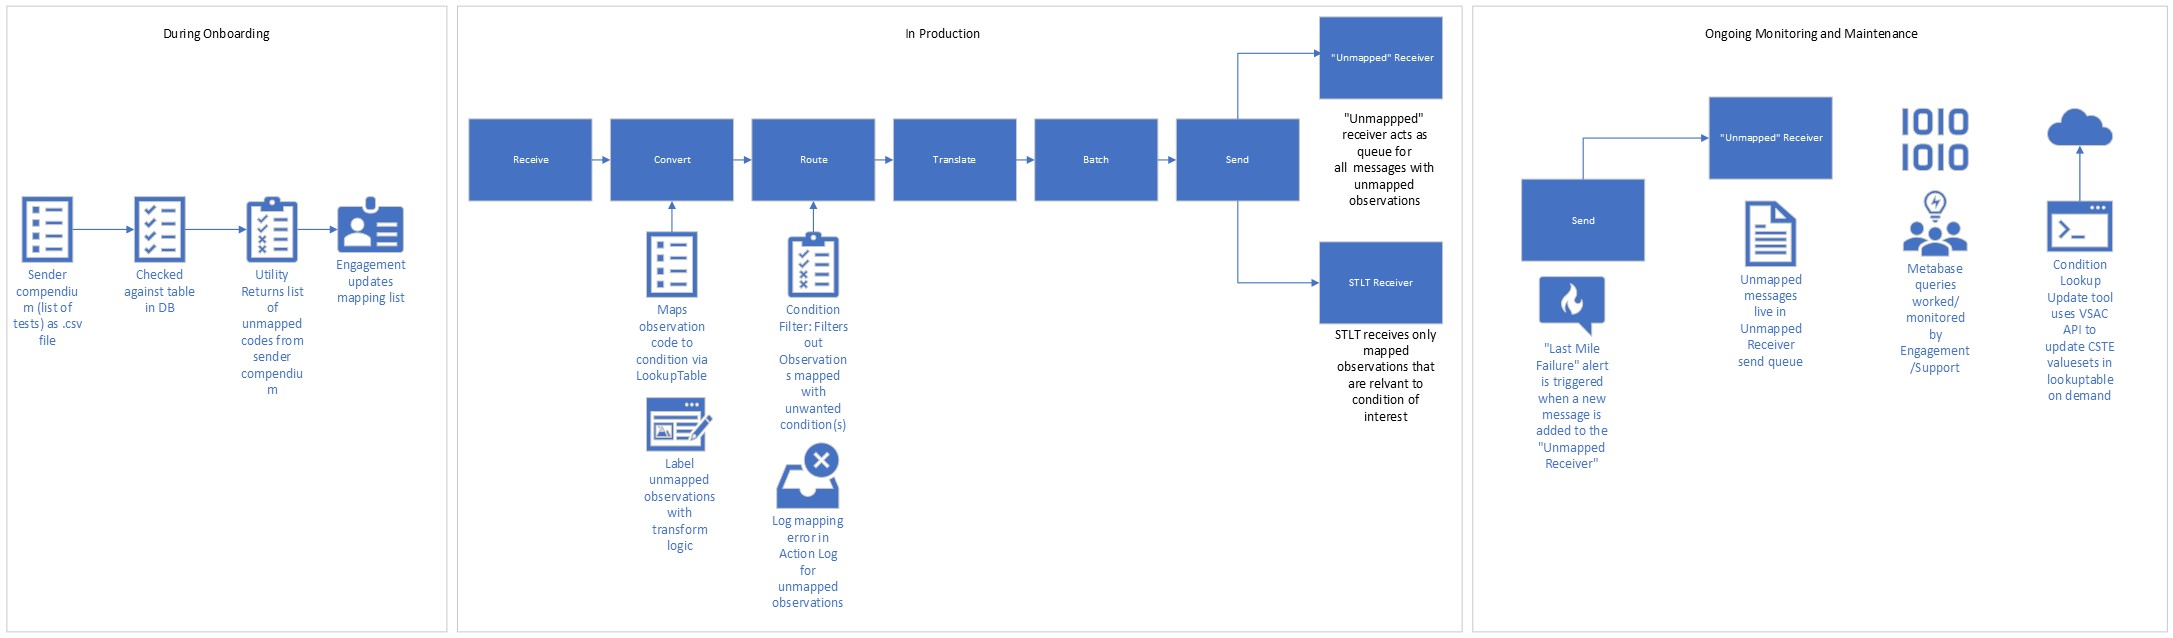
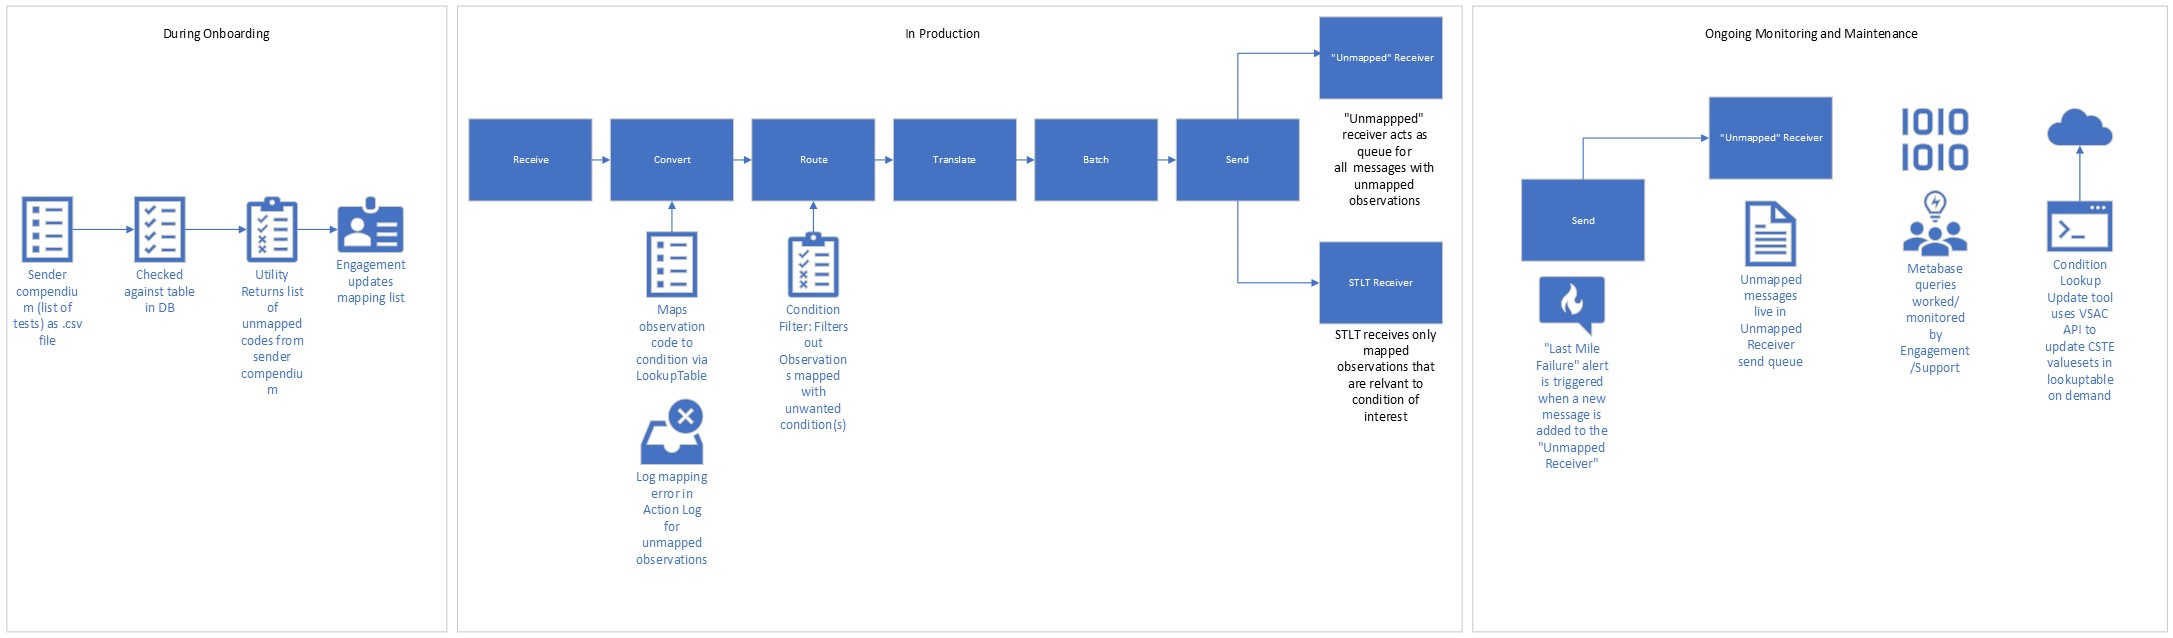
update diagram and add detail to multiple sections

Changed region(s): [[0.2775, 0.6254, 0.4008, 0.8934], [0.3392, 0.8636, 0.4008, 0.953]]

diff --git a/prime-router/docs/design/proposals/0023-condition-to-code-mapping/0023-condition-to-code-mapping.md b/prime-router/docs/design/proposals/0023-condition-to-code-mapping/0023-condition-to-code-mapping.md
@@ -28,9 +28,10 @@ Overview Diagram
 
 ![img.png](code-to-condition diagram.png)
 
-### Condition Mapping Table
 
-The condition mapping table will be made up of CSTE ValueSets and contain the following columns:
+### Observation Mapping Table
+
+The Observation Mapping table will be made up of CSTE ValueSets and contain the following columns:
 
 | Column Name                   | Description                                   | Example                                                                        |
 |-------------------------------|-----------------------------------------------|--------------------------------------------------------------------------------|
@@ -142,7 +143,7 @@ Due to the presence of the tag on the fhir bundle we can utilize any of the exis
 
 There are multiple ways to write the logic in the condition filter. The first way will remove any observations that do not pass the condition filter.<br>
 
-### Condition filter logic #1
+### Condition filter logic #1 (Recommended)
 
 Example input: [prime-reportstream/prime-router/docs/design/proposals/0023-condition-to-code-mapping/exampleinput.fhir]()
 
@@ -165,9 +166,9 @@ Example condition logic:
 ```
 Example output: [prime-reportstream/prime-router/docs/design/proposals/0023-condition-to-code-mapping/exampleoutput1.hl7]()
 
-This will result in a message with potentially missing results in the event that there is a missing mapping, and also presents difficulties in dealing with culture results as it would require all the LOINCS for all possible micro cultures to be mapped.
+This approach will prune any observations that do not match the listed conditions in the filter during the translation step (FHIRTranslator.kt).
 
-### Condition filter logic #2
+### Condition filter logic #2 
 
 The second way to write the condition logic will pass the entire bundle if a match is found for one observation.
 
@@ -208,9 +209,9 @@ enum class ActionLogLevel {
     mapping
 }
 ```
-### Logging Missing Mapping Strategy #1
+### Logging Missing Mapping Strategy 
 
-The first proposed way of monitoring mapping is to add functionality to LookupTableValueSet.kt to log a mapping error to the Action Log if the LOINC/SNOMED from the targeted observation resource used as the Key does not return a Value.
+The proposed way of monitoring mapping is to add functionality to LookupTableValueSet.kt to log a mapping error to the Action Log if the LOINC/SNOMED from the targeted observation resource used as the Key does not return a Value.
 
 Example:
 
@@ -232,7 +233,7 @@ For the below resource:
     }
   }
 ```
-the below element in the default transformation utilizes LookupTableValueSet to use key "80382-5" to search Condition-Mapping table stored in the database to return a value from the condition_code column
+the below element in the default transformation utilizes LookupTableValueSet to use key "80382-5" to search Observation-Mapping table stored in the database to return a value from the condition_code column
 
 ```yaml
 - name: test-condition
@@ -242,12 +243,14 @@ the below element in the default transformation utilizes LookupTableValueSet to 
   value: ['%resource.code.coding.code']
   valueSet:
     lookupTable:
-      tableName: Condition-Mapping
+      tableName: Observation-Mapping
       keyColumn: code
       valueColumn: condition_code
 ```
 
 In the example table below we can see that there is no match found for code "80382-5"
+
+Example Observation Mapping Table:
 
 | Member OID                     | Name                                                 | Code    | Descriptor                                                                          | Code System | Version | Status | Condition Name                                                 | Condition Code   | Condition Code System | Condition Code System Version | Value Source |
 |--------------------------------|------------------------------------------------------|---------|-------------------------------------------------------------------------------------|-------------|---------|--------|----------------------------------------------------------------|------------------|-----------------------|-------------------------------|--------------|
@@ -255,103 +258,120 @@ In the example table below we can see that there is no match found for code "803
 | 2.16.840.1.113762.1.4.1146.799 | Influenza (Tests for influenza A virus Antigen)      | 88904-8 | Influenza virus A Ag [Presence] in Lower respiratory specimen by Immunofluorescence | LOINC       | 2.74    | Active | Infection caused by novel Influenza A virus variant (disorder) | 541000000000000  | SNOMEDCT              | 2023-03                       | RCTC         |
 |                                | Influenza - (ABC TESTING LABS)                       | 123456  | Influenza virus A                                                                   | LOCAL       |         | Active | Infection caused by novel Influenza A virus variant (disorder) | 541000000000000  | SNOMEDCT              | 2023-03                       | LOCAL        |   
 
-In this instance we would add want to add an entry to the Action Log if a null value or empty string was returned. The content of the error message should include both the keyValue and the tableName as in the below example:
- 
-"Missing mapping for: " + keyValue + " for table:" + tableName". 
+Example Action Log Error Message: "Missing mapping for: 123456 for table: Observation-Mapping"
 
-By following this strategy we could also log and monitor missing mappings for any lookupTable which is used in a translation schema, not just condition mappings. The downside of this strategy is that if the value in the observation is not a test performed code (if for example it is an AOE), then we will always be logging a mapping error for that value when it is received. 
+In this instance we would add want to add an entry to the Action Log if a null value or empty string was returned. The content of the error message should include both the keyValue and the tableName in the format: "Missing mapping for: " + keyValue + " for table:" + tableName".
+By following this strategy we could also log and monitor missing mappings for any lookupTable which is used in a translation schema, not just condition mappings.
 
-### Logging Missing Mapping Strategy #2 (recommended)
-
-Strategy number two makes use of fhirpath and tags to stamp an "Unmapped" tag on an observation resource that does not find a match. We can then add logic that records an action log error when an unmapped value is received during the evaluation of the condition filters. 
-
-Example:
+Example Action Log Detail:
 
 ```json
-        {
-            "fullUrl": "Observation/d683b42a-bf50-45e8-9fce-6c0531994f09",
-            "resource": {
-                "resourceType": "Observation",
-                "id": "d683b42a-bf50-45e8-9fce-6c0531994f09",
-                "status": "final",
-                "code": {
-                    "coding": [
-                        {
-                            "system": "http://loinc.org",
-                            "code": "123456"
-                        }
-                    ],
-                    "text": "Some Unmapped Value"
-                },
-                "subject": {
-                    "reference": "Patient/9473889b-b2b9-45ac-a8d8-191f27132912"
-                },
-                "performer": [
-                    {
-                        "reference": "Organization/1a0139b9-fc23-450b-9b6c-cd081e5cea9d"
-                    }
-                ],
-                "valueCodeableConcept": {
-                    "coding": [
-                        {
-                            "system": "http://snomed.info/sct",
-                            "code": "260373001",
-                            "display": "Detected"
-                        }
-                    ]
-                },
-                "meta": {
-                    "tag": [
-                          {
-                              "code": "Unmapped",
-                              "display": "123456 is Unmapped"
-                         }
-                    ]
-                }
-            }
-        }
+ {
+    "class": "gov.cdc.prime.router.ReportStreamMapping",
+    "scope": "item",
+    "message": "Missing mapping for: 123456 for table: Observation-Mapping",
+    "filteredTrackingElement": "<tracking id>"
+}
 ```
-The following logic would need to be added to the default transform to tag the observations with "Unmapped" during the conversion step.
-
-```yaml
-- name: unmapped-test-code
-  resource: 'Bundle.entry.resource.ofType(Observation)'
-  condition: '%resource.meta.tag.code.exists().not()'
-  bundleProperty: '%resource.meta.tag.code'
-  value: ['Unmapped']
-
-- name: unmapped-test-description
-  resource: 'Bundle.entry.resource.ofType(Observation)'
-  condition: '%resource.meta.tag.code.exists().not()'
-  bundleProperty: '%resource.meta.tag.display'
-  value: ['%resource.code.coding.code + " is unmapped"']
-```
-In this instance we would add want to add an entry to the Action Log when the observation was filtered out by the condition filter that included the value of "Bundle.entry.resource.ofType(Observation).meta.tag.display".
 
 ## Monitoring Logged Errors
 
-Mapping errors logged by the action log can be monitored through metabase queries on a regular basis by the engagement/customer service team. The following is an example query that would be monitored on a regular cadence (dependent on error volume).
+Mapping errors logged by the action log can be monitored through metabase queries by the engagement/customer service team. The following is an example query that would be monitored on a regular cadence (dependent on error volume).
 
+Example query
 ```yaml
 select * from action_log
 where type = 'mapping'
 and created_at >= current date -1
 ```
-As we become more confident in our mapping coverage we can shift away from manual report monitoring to having an alert thrown similar to the "last mile failure" alerts which post a message to the engagement slack channel when there is a failure to send a report to an receiver due to a communication issue.
+## Unmapped receiver queue
+
+Creation of a receiver with the correct filters will allow us to catch all messages with unmapped observations in a queue for Engagement to work. Combined with Action Log monitoring engagement will be able to update all mappings and resend affected messages as needed to STLTs. In order to create this receiver the following settings would be needed:
+
+```yaml
+- name: "unmapped-message-queue"
+  description: "All messages that contain unmapped observations"
+  jurisdiction: "FEDERAL"
+  filters: "Bundle.entry.resource.ofType(Observation).resource.meta.tag.code.exists().not()"
+  featureFlags: null
+  keys: null
+  senders: []
+  receivers:
+      - name: "unmapped-message-queue"
+        organizationName: "
+      topic: "full-elr"
+        customerStatus: "active"
+        translation:
+            schemaName: "metadata/hl7_mapping/receivers/STLTs/NY/NY-receiver-transform"
+            useBatchHeaders: false
+            type: "FHIR"
+        jurisdictionalFilter: []
+        qualityFilter: []
+        routingFilter: []
+        reverseTheQualityFilter: false
+        conditionFilter: []
+        deidentify: false
+        deidentifiedValue: ""
+        timing:
+            operation: MERGE
+            numberPerDay: 1440 # Every minute
+            initialTime: 00:00
+        transport:
+            type: SFTP
+            host: BLANK
+            port: BLANK
+            filePath: BLANK
+            credentialName: BLANK
+        externalName: null
+        timeZone: null
+        dateTimeFormat: "OFFSET"
+```
+This will gather all unmapped messages into a single queue and also fire a "last mile failure" alert that will automatically ping the engagement slack channel when a message is added to the queue.
 
 ## Automated Mapping updates
 
-Since the bulk of the mapping table will be made up of values taken from CSTE codesets that are stored in the Value Set Authority Center (VSAC). We can make use of the VSAC's [FHIR Terminology Service](https://www.nlm.nih.gov/vsac/support/usingvsac/vsacfhirapi.html) to query and update the table. Using the "Member OID" and "Version" columns from the table we can create a utility to query each Member OID for which the "Value Source" column is "RCTC" to see if we have the latest version and if not to update to the latest version.
+Since the bulk of the mapping table will be made up of values taken from CSTE codesets that are stored in the Value Set Authority Center (VSAC). We can make use of the VSAC's [FHIR Terminology Service](https://www.nlm.nih.gov/vsac/support/usingvsac/vsacfhirapi.html) to query and update the table. Using the "Member OID" and "Version" columns from the table we can create a utility to query each Member OID for which the "Value Source" column is "RCTC" to see if we have the latest version and if not to update to the latest version. This should be a CLI utility similar to update-livd-table command that can be run on-demand to update the table.
+
+The FHIR Terminology Service for VSAC Resources is a RESTful API service for accessing the VSAC value sets and supported code systems.
+
+Example parameters: </br>
+environment - name of table to compare input to </br>
+silent - do not generate diff or ask for confirmation
+activate - activate the table upon creation
+key - apikey to access VSAC FHIR terminology service
+OID - OID of valueset to update (default to all OID in table if blank)
+
+Example CLI command for update tool:
+
+./prime condition-mapping-update --activate --silent --environment staging --key <apikey>
 
 ## Sender Compendium Comparison Utility
 
-In order to greatly reduce the number of unmapped errors that we will have to deal with. It is recommended that we build a utility where senders can submit their test compendiums during the onboarding process to allow engagement to pre-emptively map. This will be a utility that takes in a csv file prepared by the sender and compares the codes against the condition mapping table. The utility should then return which codes are not found in the table so that the engagment team can map them prior to the sender moving to production.
+In order to greatly reduce the number of unmapped errors that we will have to deal with. It is recommended that we build a utility where senders can submit their test compendiums during the onboarding process to allow engagement to pre-emptively map. This will be a utility that takes in a csv file prepared by the sender and compares the codes against the observation mapping table. The utility should then return which codes are not found in the table so that the engagment team can map them prior to the sender moving to production.
 
-Example compendium CSV:
+Example parameters: </br>
+env - environment to run command against </br>
+tablename - name of table to compare input to </br>
+input -file location of input CSV </br>
+output -location to output post comparison csv
 
+Example CLI command:
+
+./prime mapping-table-comparison -tablename observation-mapping -input <input-file-location> output <output-file-location> -env staging
+
+
+Example input compendium CSV:
 ```csv
 test code,test description,coding system
 97099-6,Influenza virus A and B and SARS-CoV-2 (COVID-19) Ag panel - Upper respiratory specimen by Rapid immunoassay, LOINC
 47457-7,Influenza virus A H8 Ab [Titer] in Serum, LOINC
 123456, LDT Flu Test, LOCAL
+```
+Example output CSV:
+
+```csv
+test code,test description,coding system, mapped?
+97099-6,Influenza virus A and B and SARS-CoV-2 (COVID-19) Ag panel - Upper respiratory specimen by Rapid immunoassay, LOINC., Y
+47457-7,Influenza virus A H8 Ab [Titer] in Serum, LOINC, Y
+123456, LDT Flu Test, LOCAL, N
 ```
